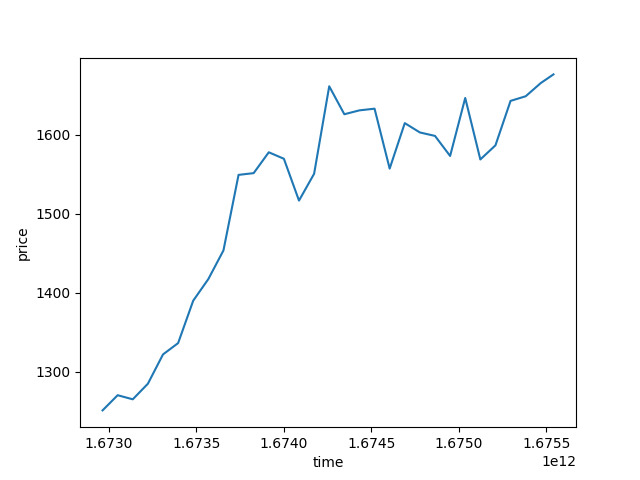
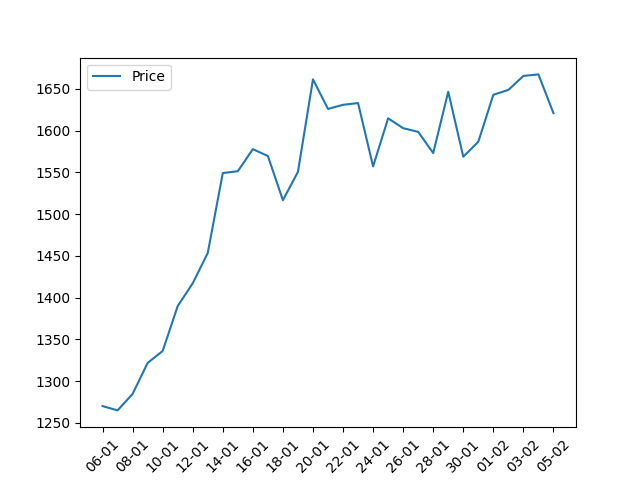
improve chart

diff --git a/templates/coin.html b/templates/coin.html
@@ -6,9 +6,9 @@ Coin information
 
 {% block content %}
  
-<p>Chart</p>
+<h1 style="text-align: center;">{{ crypto }} chart</h1>
 
-<img src="{{url_for('static', filename='new_plot.png')}}" alt="Chart">
+<img src="{{url_for('static', filename='new_plot.png')}}" alt="Chart", class="center">
 
 <div>{{ coin_price }}</div>
 <div>{{ coin_date }}</div>

diff --git a/templates/base.html b/templates/base.html
@@ -4,6 +4,7 @@
     <meta charset="UTF-8">
     <meta http-equiv="X-UA-Compatible" content="IE=edge">
     <meta name="viewport" content="width=device-width, initial-scale=1.0">
+    <link rel="stylesheet" href="../static/styles.css">
     <title>{% block title %}{% endblock %}</title>
 </head>
 <body>

diff --git a/static/styles.css b/static/styles.css
@@ -1,0 +1,6 @@
+.center 
+{
+    display: block;
+    margin-left: auto;
+    margin-right: auto;
+}

diff --git a/app.py b/app.py
@@ -1,7 +1,8 @@
 from flask import Flask, render_template
-import requests
+from datetime import datetime
 
 import matplotlib.pyplot as plt
+import requests
 
 app = Flask(__name__)
 
@@ -22,19 +23,24 @@ def info_coin(crypto):
     coin_price = []
 
     for i in range(len(coin['prices'])):
-        coin_date.append(coin['prices'][i][0])
+
+        dt = datetime.fromtimestamp(coin['prices'][i][0] / 1000)
+        formated = dt.strftime('%d-%m')
+
+        coin_date.append(formated)
         coin_price.append(coin['prices'][i][1])
 
     x = coin_date
     y = coin_price
-    plt.plot(x, y)
-
-    plt.ylabel('price')
-    plt.xlabel('time')
+    
+    plt.plot(x, y, label='Price')
+    plt.xticks(x[::2], rotation=45)
+    plt.legend()
 
     plt.savefig('static/new_plot.png')
+    plt.clf()
 
-    return render_template('coin.html', coin_date=coin_date, coin_price=coin_price)
+    return render_template('coin.html', crypto=crypto, coin_date=coin_date, coin_price=coin_price)
 
 if __name__ == "__main__":
     app.run()
